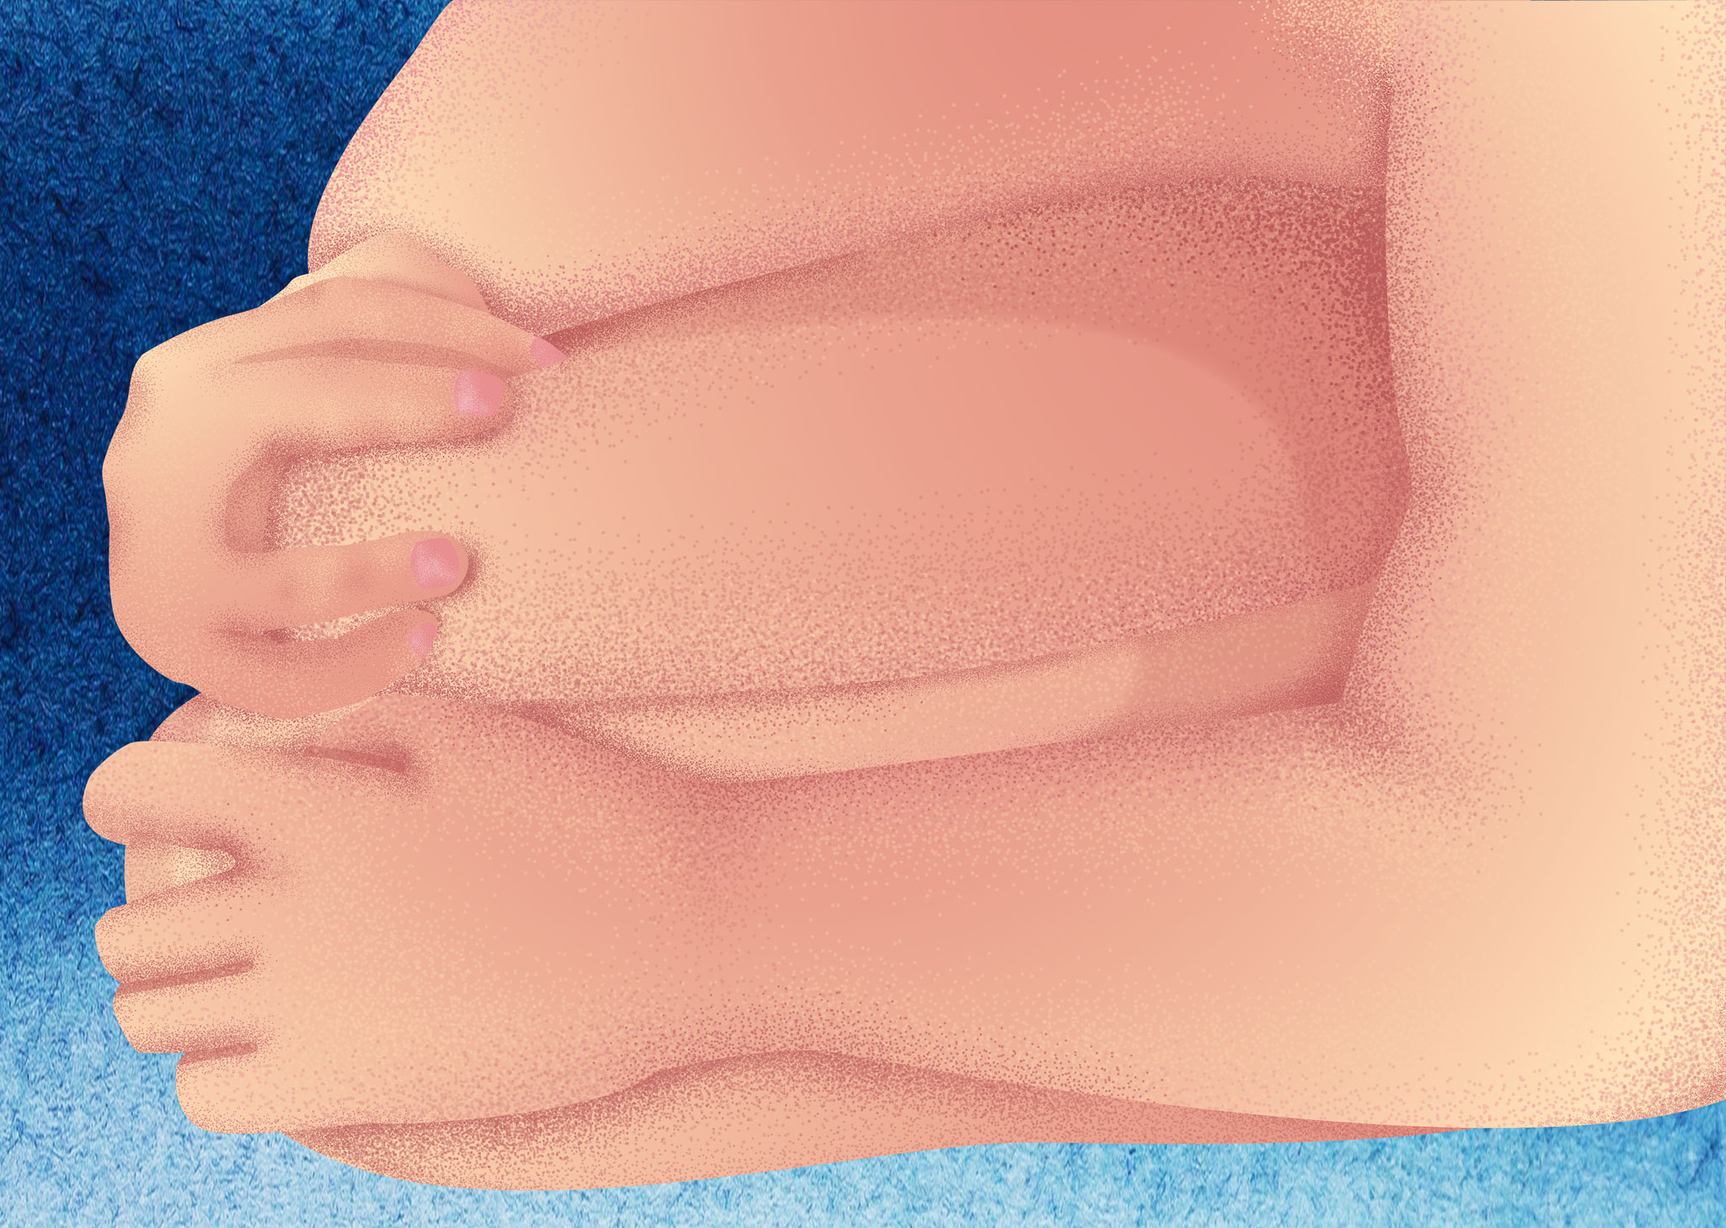
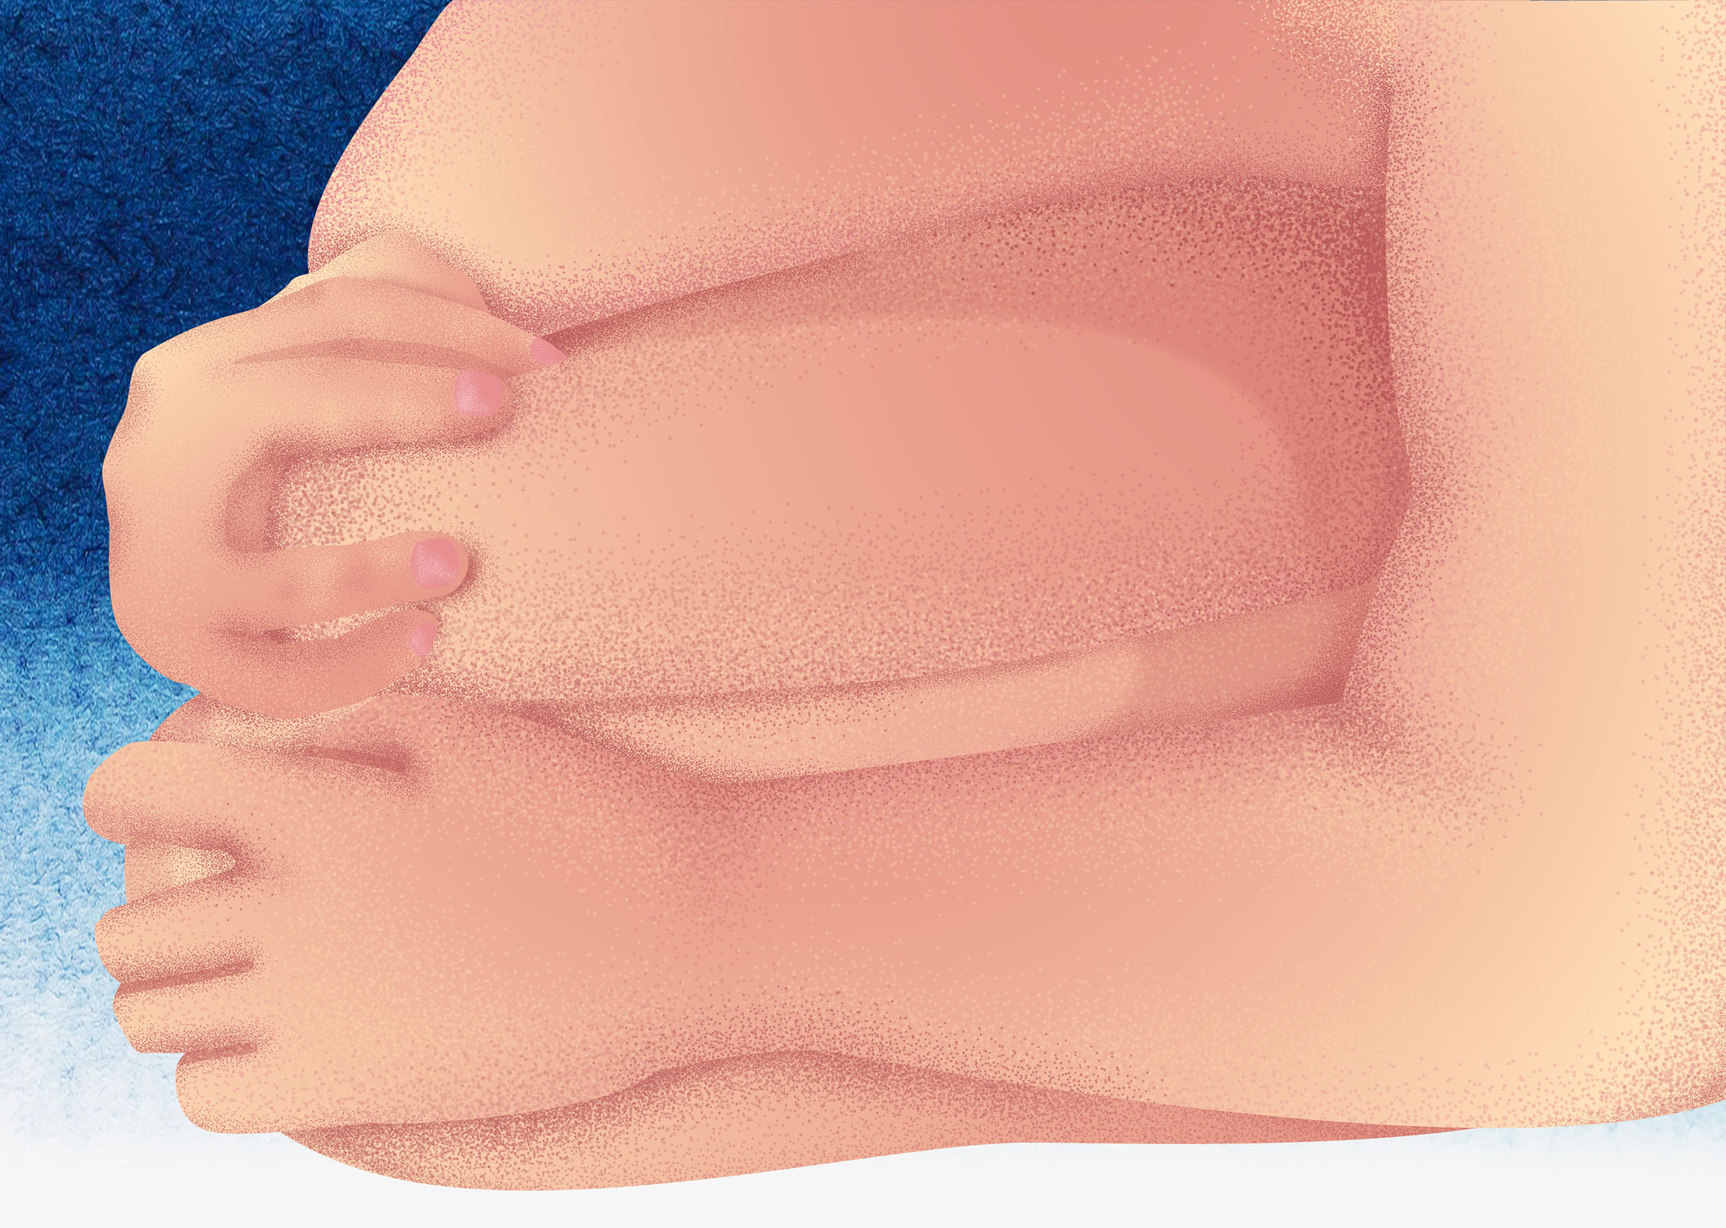
from home mrt to home page

Changed region(s): [[0.0, 0.0, 1.0, 1.0]]

diff --git a/newwheretofitin/src/components/HomeCover.vue b/newwheretofitin/src/components/HomeCover.vue
@@ -1,35 +1,51 @@
 <template lang="pug">
-  section.cover
-    .cover-base
-    svg.cover-click(xmlns='http://www.w3.org/2000/svg', viewBox='0 0 1921 1388' :style="{ height: coverImgAspectRatio > screenAspectRatio ? '100%' : '' }")
-      g#person1
+  section.home-cover
+    //- .mrt-wrapper(ref="mrtWrapper")
+    .cover.cover-mrt
+    svg.cover-clickable(xmlns='http://www.w3.org/2000/svg', viewBox='0 0 1921 1388', :style="coverStyle")
+      g(data-person="1", @mouseenter="togglePerson", @mouseleave="togglePerson")
         path(d='M1185.53,467.22c-4.24-15.54-4.46-20.31-27.75-32.76-17-9.11-63.52-15.5-87.23-18.27l-1.72-.2-1.61-.18a66.38,66.38,0,0,0,.59-8.2c.19-3.77-2-9.63-10.63-10.76a7.94,7.94,0,0,0-6.75,2.48c.17-1.21.31-2.57.39-4.05.7-13.82-4.41-38.68-45.26-53.87-28.88-10.74-44.8-.55-53.54,12.62-8.88,1.93-32.47,10.1-28.2,42.06a10.19,10.19,0,0,0-9.72-.37,13.88,13.88,0,0,0-4.75,3.88,17.91,17.91,0,0,0-3,16.64c1.34,4.17,4.35,8.38,9.69,12.06a15.53,15.53,0,0,0,2.31,1.52c-.71,2-1.53,4.15-2.42,6.37-1.53,3.8-3.26,7.8-5,11.65-2.16,4.79-4.32,9.35-6.08,13a10.08,10.08,0,0,0-7.9,5C893,472.1,827.3,538.5,818,581.91s-12.93,55.3-11.55,59.95c.16.54.87,1.08,2,1.58a1,1,0,0,0-.15.14c-.51.76-.24,1.89-.14,2.72a46.72,46.72,0,0,1,.23,5.13q0,2.26.11,4.53c0,1.3.09,2.6.16,3.9a136.71,136.71,0,0,0,3,23.62,79.58,79.58,0,0,0,9.15,23.35,57.65,57.65,0,0,0,9.63,12.11c.35.34.73.65,1.09,1-.05.78-.09,1.55-.13,2.32-.76,12.47-1.18,24.84-1.19,37a4,4,0,0,0,.21,1.07l-.74.05s-.84,22.79-.72,46c.1,20.05.92,40.46,3.6,46.93,5.8,14,10.43,16.78,9.85,27.27,0,0-4.78,9.09-4.41,18.18.32,7.94,5.21,18,10.68,23.69a22,22,0,0,0,2.41,2.18A76.18,76.18,0,0,0,854,947.75c3.47,11.19,1.74,18.18,0,23.07s3.47,15.38,10.41,16.78c.45.09,1.37.21,2.7.35a19,19,0,0,0-2.13,4.59c0,.12-.09.23-.13.36q-.16.55-.28,1.13c-1,4.68-.07,10.34,2.83,12.86,1.81,1.57,4,1.71,6.14,1.82l2.4.12,10.63.52,10.64.52,10.64.52,10.64.52,10.64.52h.19q5.22.26,10.45.49t10.62.38q5.39.14,10.78.13c3.47,0,6.95-.08,10.42-.22,1.43-.06,2.87-.12,4.3-.21a34.44,34.44,0,0,0,6.34-.86,14.21,14.21,0,0,0,7.75-4.7c.31-.38.6-.75.87-1.13a13.51,13.51,0,0,0,2.59-10.93q1.17-.05,2.08-.13a12.53,12.53,0,0,0,2.42-.37c8.74-2.8,11.63-14,11.63-14s4,13.8,11,14.59l.6,0c.5,0,1.18.07,2,.09a13.46,13.46,0,0,0,2.39,11.81c.27.38.56.75.87,1.13a14.21,14.21,0,0,0,7.75,4.7,34.43,34.43,0,0,0,6.34.86c1.43.09,2.87.15,4.3.21,3.47.15,6.95.21,10.42.22s7.19,0,10.78-.13,7.08-.22,10.62-.38,7-.32,10.45-.49h.19l10.64-.52,10.64-.52,10.64-.52,10.64-.52,10.63-.52,2.4-.12c2.11-.1,4.33-.25,6.14-1.82,2.9-2.52,3.81-8.18,2.83-12.86q-.12-.57-.28-1.13c0-.12-.09-.23-.13-.36a19.51,19.51,0,0,0-3.57-6.6,12.72,12.72,0,0,0,1-1.89,88.31,88.31,0,0,1-9.5-16.08,111,111,0,0,1-9.05-33.42,137.73,137.73,0,0,1,3.11-48.21c2.11-8.57,6-17.35,9.7-26.26,7.56-18.11,14.52-36.72,4.89-55.07a75,75,0,0,1-5.21-14.85c-.37-1.42-.73-2.9-1.07-4.43-.31-1.39-.61-2.81-.9-4.28-.42-2.15-.81-4.39-1.16-6.69a143.67,143.67,0,0,1-1-37.24c.12-1.06.25-2.11.4-3.16a75.84,75.84,0,0,1,6.65-22.47c.35-.71.73-1.4,1.11-2.09q.88-1.62,1.87-3.16a45.91,45.91,0,0,1,7.74-9.23l.14-.13c.25-.22.47-.46.72-.67l.18-.17-.2-.17c-.46-.37-.91-.76-1.37-1.16l-.48-.41c-.67-.6-1.33-1.25-2-1.92a43.89,43.89,0,0,1-4.8-5.93,49.1,49.1,0,0,1-3.86-6.89,54.93,54.93,0,0,1-2.37-5.95,63.68,63.68,0,0,1-3.12-27.06,61.52,61.52,0,0,1,3.69-15.05c1.86-5.2,1.7-8-2.64-24.28l-.32-1.19a28.31,28.31,0,0,1-.93-6.83c0-.18,0-.36,0-.54a35.08,35.08,0,0,1,.22-3.91q.08-.7.18-1.4c1.17-7.91,4.78-16.06,9.39-23.42l.56-.88c1.54-2.39,3.17-4.7,4.85-6.88l.19-.25q.62-.8,1.25-1.58c1-1.25,2-2.46,3.07-3.61q1.19-1.34,2.38-2.57c.34-.35.7-.68,1-1q.89-.87,1.81-1.69a52.78,52.78,0,0,1,10.52-7.23l.65-.34a77.46,77.46,0,0,1,20.25-6.73C1193,516.82,1188.52,478.17,1185.53,467.22Z')/
-      g#person2
+      g(data-person="2", @mouseenter="togglePerson", @mouseleave="togglePerson")
         path(d='M1187.17,122.16c-.82-16.56-8.6-31.95-16.23-46.81a32,32,0,0,0-4.58-7.22c-.21-.23-.45-.45-.68-.67q.81-4.27,1.75-8.45,1.39-4.81,2.44-9.72c.06-.21.11-.43.17-.64a72.2,72.2,0,0,0,2.67-14.77c.59-6.9.9-13.93,1.06-21h-24.4c-.27,7.55-1.2,21.41-4.39,31.07-2.58,7.8-4.56,15.33-5.82,20.45a34.14,34.14,0,0,0-6.87,4.92c-1.78,1.6-3.45,3.32-5.07,5.06-8.74,9.38-16.79,19.64-21.91,31.21l-.28.65c-3.92,9.11-9.29,26.55-1,34.45,2.15,2.06,5.11,3,8.16,3.66a16.7,16.7,0,0,0,6.11,2.64c-1.64,3.88-6,15.29-4.62,23.22,1.65,9.17,1.28,26.8-5.3,31-.24-.21-.49-.41-.74-.6a15.35,15.35,0,0,0-14.3-2.71l-.13,0A78.37,78.37,0,0,0,1081,184.79c-9.56-8.12-21.36-13.59-33.92-17.7l-2.05-.67a33.06,33.06,0,0,1,.41-9.24c.11-.6.22-1.2.35-1.81a18.57,18.57,0,0,0,2.2-1.16,21.42,21.42,0,0,0,6.47-6.61,39.62,39.62,0,0,0,3.82-7.78,86.57,86.57,0,0,0,4.63-21.05c.3-2.77.49-5.55.66-8.32l0,0,0-.29c0-.71.09-1.43.13-2.14.12-2.31.49-4.13-.13-5l0,0a5.32,5.32,0,0,0-.72-.78,13,13,0,0,0-1-.87c-.58-.43-1.15-.81-1.56-1.07a126.33,126.33,0,0,0-.06-15.12,66.72,66.72,0,0,0-2.48-15.17,39,39,0,0,0-2.16-5.62,7.62,7.62,0,0,0-1.24-2c.63-.59.94-.95.94-.95A27.79,27.79,0,0,0,1053,54.7c-7.67-15.73-30.11-24.13-59.21-24.48-33-.4-41.91,10.75-55.82,27.08S926.38,99,928.59,106.9a125.73,125.73,0,0,1,3,18.16c.1,1,.17,1.71.21,2.16-.33,1.46-.65,2.91-1,4.37a95.87,95.87,0,0,1-3.35,12.21,15.84,15.84,0,0,1-.79,1.73,14.75,14.75,0,0,0-3.76.84c-4,1.47-6.93,4.54-9.39,7.85A95.94,95.94,0,0,0,901,177.28c-.91,2.39-1.75,4.8-2.49,7.25a32.24,32.24,0,0,0-1.16,6.71,43.67,43.67,0,0,1,17,3.82,35.58,35.58,0,0,1,5.15,3c8.94,6.26,15,16.2,20.55,25.7,1.13,1.93,2.24,3.87,3.33,5.82a80.66,80.66,0,0,1,4.32,8.85c3.56,8.83,4.82,18.37,5.76,27.81,1.27,12.64,2,25.41.68,38,0,.43-.1.85-.15,1.28-.3,2.55-.66,5.09-1,7.63-.25,1.88-.47,3.75-.64,5.63a21.51,21.51,0,0,1,7.42,3.46,57.45,57.45,0,0,1,5.67,2c6.6,2.71,12.73,6.9,15.07,13.38,7.12-.57,15.56.63,25.56,4.35.74.27,1.43.56,2.15.84,34.88,13.7,42.33,34.64,43,48.54.06,1.34.05,2.61,0,3.81a44.7,44.7,0,0,1-.41,4.52,9.25,9.25,0,0,1,3-2,7.31,7.31,0,0,1,3.68-.44,16.43,16.43,0,0,1,3.91,1,11.56,11.56,0,0,1,3.22,1.87A9.65,9.65,0,0,1,1068,406a9.47,9.47,0,0,1,.12,2c0,.1,0,.22,0,.34v.12c0,1.09-.05,2.86-.25,5-.08.85-.18,1.75-.32,2.7,13.39,1.52,36.79,4.48,57.21,8.66l3,.63a99.24,99.24,0,0,1-.52-18.39l0-.61a15.52,15.52,0,0,0,5.65-5.83c.06-.11.12-.21.18-.32,2-4.22,1.32-9,1.32-13.57,0-16.39,9.67-31.52,13.29-47.6,4.3-19.13-.12-39.07-7.91-57.34-1.52-3.56-3.18-7.06-4.91-10.54,3.69-6.15,9.49-21.53,10.62-58.25,0,0,2.42-24.13,9.87-32.42s12.53-9.27,11.45-29.19C1181,148.48,1187.91,137,1187.17,122.16Zm-33.9-38.07a19.76,19.76,0,0,1,3,4.33c5.13,9,10.37,18.25,11.28,28.42a21,21,0,0,1-.89,8.63l-.41,0c-2.28-.17-4.75.14-6,1.89-.09.13-.15.26-.23.4a9.44,9.44,0,0,0-3.61-.5c-2.29.06-4.82.62-6.29,2.44a6,6,0,0,0-.38.56,5.93,5.93,0,0,0-.5,1l-.06.15a6.36,6.36,0,0,0-2.12-3.93A8.11,8.11,0,0,0,1142,126c-2.37,0-5,.46-6.41,2.32v0a6.08,6.08,0,0,0-1.74-3.33,8.11,8.11,0,0,0-5-1.76,10.93,10.93,0,0,0-4.12.38,44.58,44.58,0,0,1,2.83-11.31c2.88-7.41,7.62-14.06,12.81-20.17,2.29-2.7,4.76-5.38,8-7a12.79,12.79,0,0,1,4.58-1.31Z')/
-      g#person3
+      g(data-person="3", @mouseenter="togglePerson", @mouseleave="togglePerson", @click="showPage")
         path(d='M725.11,551.15h0a17.61,17.61,0,0,0-4.53-8.8,21.09,21.09,0,0,0-6.78-5,22.07,22.07,0,0,0-10.42-2,26.47,26.47,0,0,0-11.77,3.49,10.86,10.86,0,0,1-8.72-2c1.27-1.71,1.64-3.18,1-3.64-1.11-.85-4-8.46-4-8.46l-.74,0c-.09-.5-.21-1-.32-1.47l-.08-.32c-4-16.41-8.19-33.27-18.09-46.94a80.8,80.8,0,0,0-15.56-15.86c-8.91-7.05-19-12.83-29.06-18.54L612,439.22a70,70,0,0,0,.09-32.29c-4.91-20.33-18.44-37.15-32.54-52.17a88.51,88.51,0,0,0-11.89-11.05c-6.08-10.68-15-23.37-24.26-25.71a315.1,315.1,0,0,0-3.28-37c-.23-1.52-.47-3-.79-4.55a9.38,9.38,0,0,1,.41,1s1.12-1.81,2.56-4.63c4.2-8.22,11.14-25.06,1-31-8-4.7-18.79-3.37-27.42.86a33.81,33.81,0,0,0-2.59-2.18c-7.45-5.59-16.92-7.67-26.15-8.92-9.95-1.36-20.3-1.88-29.86,1.06a8.56,8.56,0,0,0-1.36-1.17,5.93,5.93,0,0,0-4.75-1c-4.28,1-13.75,4.9-10.2,11.48a61.83,61.83,0,0,0-12.45,15.38c-6.4,11-12,24.32-10.09,37.3.13.93.3,1.86.51,2.79a5.34,5.34,0,0,0,1.31,2.78,3.8,3.8,0,0,0,1.45.8l-.32.07a33.09,33.09,0,0,0,1.53,9.29,8.1,8.1,0,0,0-1.21,1c-3.78,3.77-3.89,9.07-2.21,13.35a38.62,38.62,0,0,0-9.94,4.52c-17.38,11.47-40.13,20.2-41.42,37.57-2.21,5.54-4.92,12.79-6.65,18.94a122.26,122.26,0,0,1,4.39,16.82s5.55,34.46-2.61,42.95a33.34,33.34,0,0,1-8.68,6.56,16.93,16.93,0,0,0,8.68,7.76,41.66,41.66,0,0,1,7.88-12c.56-.59,1.08-1.17,1.58-1.74,6.55-7.44,8.65-13.29,13.42-18.35a34.19,34.19,0,0,1,11.18-7.62c5.45-2.49,12.92-4.87,23.71-7.27a83.43,83.43,0,0,1,12.24-1.8c2.63-.19,5.19-.24,7.66-.18a76.37,76.37,0,0,1,26.27,5.37c2.15.85,4.17,1.76,6,2.68a76.68,76.68,0,0,1,8.05,4.64l1.06.72,1.38,1c.74.53,1.41,1,2,1.5l.27.21c.85.67,1.56,1.27,2.08,1.72.79.69,1.2,1.1,1.2,1.1a134.54,134.54,0,0,1,10.15,12.65,101.8,101.8,0,0,1,10.1,17.29,54.1,54.1,0,0,1,3.21,9.29c.06.27.12.54.18.82.1.47.2.93.28,1.4a107.06,107.06,0,0,1,1.29,21.56c0,1.45-.07,2.87-.11,4.22-.22,7.45-.34,13.32,1.95,16.92,3.13,4.94,8.93,13,9.76,23.8a34.21,34.21,0,0,1,0,5.1,36.24,36.24,0,0,1-1,6.08l22,5.76a68.46,68.46,0,0,0-1.64,12.08q4.68,3,9,6.31l.85.64c3,2.33,5.91,4.83,9.46,6.36a29.42,29.42,0,0,0,8.86,2c6.19.59,13.39-.34,16.84-5.1,2.74-3.79,2.2-8.72,2.21-13.27a36.23,36.23,0,0,1,.55-6.19,26.48,26.48,0,0,1,6.18-13.34,20,20,0,0,1,4.64-3.79l0-.8q.14-3.41.28-6.82c-.19-5.38-.8-10.78-3.07-15.64l-.19-.4A36.24,36.24,0,0,0,597,510.4c-1-1.22-2-2.42-3-3.6q2,.41,3.93.72l1.38.21c2,.28,4.09.48,6.14.6l0-.53q.06-1.41.13-2.81c-.18-.06.09-8,.11-9.32a8.1,8.1,0,0,1,.36-2.48l0-.06a2.94,2.94,0,0,1,.26-.52l.11-.15.1-.13.06-.06a6.82,6.82,0,0,1,1.58-1.2l.34-.23c1.83-1.19,5.11-2.85,5.72-3.21a6.41,6.41,0,0,1,2.23-.95,6.64,6.64,0,0,1,3.13.55l32.17,11.22a4.89,4.89,0,0,1,2.12,1.17l.14.19a3.68,3.68,0,0,1,.41,2.29l-.42,10.57-.63,16.16-.11,2.74-.11,2.79-.08,1.95-.17,4.44-.32,8.23-.06,1.57-.11,2.91-.09,2.38-.23,5.93,0,.66v.37l0,.64-.22,5.64-.13,3.36a2.75,2.75,0,0,1-.45,1.69,3.21,3.21,0,0,1-1.24.79l-.9.39-3.45,1.5-.57.25-.68.3a7.92,7.92,0,0,0,.67,2.65,3.72,3.72,0,0,0,.69,1,23.34,23.34,0,0,0,.25,2.72c.62,3.34,3.49,5.08,7.15,5.93a34.85,34.85,0,0,0,7.83.72c2.64,0,5.21-.2,7.29-.38l2.71-.22c1.58-.11,3.16-.28,4.74-.48q3.53-.43,7-1.1c2.6-.5,5.17-1.1,7.72-1.78.74-.2,1.48-.37,2.22-.58,1.66-.48,3.32-1,5-1.54,2.38-.79,4.74-1.66,7.06-2.62s4.74-2.07,7-3.27c1.92-1,3.81-2.1,5.62-3.28l.84-.55a37.59,37.59,0,0,0,5.73-4.48,11.2,11.2,0,0,0,3.58-6.28,6.85,6.85,0,0,0,.06-.84C727.58,550.27,725.11,551.15,725.11,551.15Z')/
-      g#person4
+      g(data-person="4", @mouseenter="togglePerson", @mouseleave="togglePerson")
         path(d='M1498.53,402.19c-.08-.15-.16-.31-.25-.46,3.49-7.15,4.67-17.79,3.09-29.82-2-15.34-9.62-24.46-9.62-24.46.08-.23.14-.44.22-.66l.12-.37c5.1-15.19,2.35-25,2.35-25a89.21,89.21,0,0,0-2.4-18.51,136.2,136.2,0,0,0-7-21.36A223.71,223.71,0,0,0,1475,260.76l-1-1.8c.28-19-14-31.67-14-31.67h0c-4.44-4.43-10.45-7.37-16.59-9.42-1-.34-2-.66-3.07-1l-1.53-.42q-1.25-1.17-2.37-2.14a21.38,21.38,0,0,0-5.18-3.65c-7.52-2.89-16.63-15.67-18.2-16.15a2.67,2.67,0,0,0-2.25.42c-1.94-3-3.44-7.46-4.61-12.63,1.22-.55.61-1.37.61-1.37s-.9-17.56,1.36-27.24,7.91-38.5-20.58-49.3a16.13,16.13,0,0,0,3.54-3,13.14,13.14,0,0,0,3.25-12.09C1392.09,79.45,1393,65.49,1365,59c-21.47-5-31,2.67-34.7,8a13.76,13.76,0,0,0-1.93,3.75c-.18.61-.37,1.25-.54,1.9-.73,2.72-1.19,5.78,1,8.68,0,0-17-.9-35.73,14.63a51.7,51.7,0,0,0-9.85,10.76,49.09,49.09,0,0,0-8.49,28.83c0,1,.11,1.87.2,2.59-3.56,20.48-7.39,47.67-8.86,58.37-5.15-.35-13,.66-20.45,7.86a76.75,76.75,0,0,0-9.26,11.11c-1.31,1.87-2.53,3.74-3.65,5.57-1.42,2.31-2.69,4.53-3.79,6.54q-.67,1.24-1.25,2.36c-13.74,5.37-24.35,14.22-30.57,24a22.73,22.73,0,0,0-3.21,10c-.87,8.75,2.09,17.33,2.51,18.47a4.19,4.19,0,0,0-2.29-.74c-4.86,0-7.92,3.6-6.75,8.64,0,0-6.84,2.16-4.32,9.9a5,5,0,0,0-.38.35c-1.11,1.12-4,4.93-.18,11.11,0,0-.09.21-.21.56-.53,1.52-1.69,5.73.73,7.87a5.93,5.93,0,0,0-.76.59l0,0a11.33,11.33,0,0,0-1.59,1.76l-.4-.3c-.07.39-.13.78-.19,1.18-2,3.15-3.94,8.92-2.33,18.76.13.81.31,1.6.5,2.38q0,.65,0,1.3c0,.36,0,.72,0,1.09q.48.86,1,1.7a69.41,69.41,0,0,0-1.78,13.36,18,18,0,0,0,2.21,9.6l-.11,0q.87,1.55,1.81,3,.47.72,1,1.39a36.38,36.38,0,0,0-8.73,1.82c-14.71,5.21-29.33,13.41-32.59,29.25a199.41,199.41,0,0,0-3.4,21.13c2.65.68,5.18,1.38,7.56,2.1a72.47,72.47,0,0,1,12.57,4.89c23.28,12.44,23.5,17.22,27.73,32.75,2.18,8,5.17,30.72,7.57,50.9.27,2.3.54,4.57.79,6.78.57,5,1.1,9.65,1.55,13.74a161.49,161.49,0,0,1,26.95-2.75,57.75,57.75,0,0,1,6.31.18c1.32.11,2.61.25,3.86.44a50.6,50.6,0,0,1,8.37,2q1.24.41,2.41.87l.65.26q1.43.58,2.76,1.23a49,49,0,0,1,14.67,10.89c15.43,3.23,23.37,13.54,27.43,24.05a66.32,66.32,0,0,1,4.06,20.06,58.52,58.52,0,0,1,0,7c-.19.17-.4.3-.6.46a40.29,40.29,0,0,1-12,6.72c-.31,3.31-.67,6.8-1.08,10.34-.8,6.89-1.8,14-3,20.3a81.31,81.31,0,0,1-4.22,15.41c-.18.41-.33.81-.5,1.21q-.88,2.13-1.62,4.13c-1,2.68-1.78,5.2-2.41,7.57,8.56.42,17.45-2.62,24.89-7.19a67.78,67.78,0,0,0,27.36-32.7,27.34,27.34,0,0,0,2.08-8.13c.45-6.83-3.17-13.24-4.28-20,0-.19-.05-.37-.08-.56s-.09-.57-.12-.86h0a197.53,197.53,0,0,0-4.38-20.29c-.84-3.24-1.91-6.79-4.59-8.5a6.78,6.78,0,0,0-4-1,10.33,10.33,0,0,0-1.34.14c.4-3.34.78-6.92,1.09-10.53a156.79,156.79,0,0,0,.67-20.92c.2-.64.37-1.28.56-1.92l.46-.32a120.86,120.86,0,0,0,4.71-23.57c.06-.45.12-.89.18-1.34a212.26,212.26,0,0,0,67.46-.12,214.05,214.05,0,0,0,67.37-17.27,113.82,113.82,0,0,0,22.8-13.76,106.16,106.16,0,0,0,9.47-8.3c13.48-13.33,23-30.16,24.56-48.91C1502.89,416.29,1501.94,408.39,1498.53,402.19Z')/
-      g#person5
+
+      g(data-person="5", @mouseenter="togglePerson", @mouseleave="togglePerson")
         path(d='M655,498.92l-.14-.19a4.9,4.9,0,0,0-2.12-1.17l-32.24-11.24a6.65,6.65,0,0,0-3.13-.55,6.42,6.42,0,0,0-2.23.95c-.61.36-3.9,2-5.73,3.22l-.34.23a6.83,6.83,0,0,0-1.58,1.2l-.06.06-.1.13-.11.15a3,3,0,0,0-.26.53l0,.06a8.11,8.11,0,0,0-.36,2.48c0,1.3-.29,9.28-.11,9.34q-.06,1.41-.13,2.82c0,.43,0,.86-.06,1.29h0l-.78,17.8c-.19,4.54-.37,9.09-.55,13.64-8.17,4.8-11.38,14.46-11.4,23.37,0,4.56.53,9.5-2.22,13.29-3.45,4.77-10.67,5.7-16.87,5.11a29.47,29.47,0,0,1-8.88-2.05c-3.55-1.54-6.48-4-9.48-6.37a126.11,126.11,0,0,0-29-16.89c-1.18-.49-2.37-.94-3.56-1.4.27-.55.53-1.14.77-1.78,7.3-19.13-2.78-32.69-7.3-39.82s.35-23.13-3.13-42.78-24-41.53-24-41.53-26.35-26.35-68.37-17-34.13,18.31-50,35.06c-8.74,9.23-11.43,20.82-12.1,29.38h0s-2.18,18.38-8.3,23.27c-5.59,4.47-22.82,43.77-5.8,64.27-1.12.9-2.23,1.84-3.31,2.87A141.54,141.54,0,0,0,329,580.94a159.66,159.66,0,0,0-20.2,33,192.31,192.31,0,0,0-14.86,49.22c-.17,1-.34,2.05-.49,3.08l-.13-.36c0,.67-.07,1.33-.1,2a214.49,214.49,0,0,0-2,22.14c-.07,1.82-.13,3.65-.13,5.48-.28,26.87,3.94,53.67,3.23,80.53-.17,6.54-1.69,14.51-7.9,16.56-3.25,1.07-7.3.24-9.73,2.64-2.23,2.2-1.32,5.71.9,8a7.94,7.94,0,0,0,2,1.48,6.59,6.59,0,0,0,1.66.61c.15,0,.29.07.44.1s0,.12.05.18a7,7,0,0,0,4.31,4.72,8.26,8.26,0,0,0,2.26.57,6.56,6.56,0,0,0,4.83-1.29c0,.14.07.27.1.4a7,7,0,0,0,.28,1c2,5.37,10.35,7.5,14.49,3.31.08-.08.17-.14.24-.23a4.5,4.5,0,0,0,.29,1.4c1.18,3.11,5.69,4.58,9,3.28,3.77-1.48,6.15-5.16,8.15-8.69.75-1.33,1.6-2.77,3-3.29h0a4.06,4.06,0,0,1,1.88-.15q.47.8,1,1.58c.27.39.54.79.82,1.17.91,1.23,1.9,2.41,2.93,3.55q.64.71,1.3,1.41c19.22,20.22,46,32.24,73.42,37.19,10.28,1.85,21.18,3,29.79,8.86a24.41,24.41,0,0,1,.9,5.53c-3.75,25.62-.34,40.42,4.23,49.85a38.1,38.1,0,0,0,3.61,7.21c2.21,3.41,5.07,6.68,7.59,10a28.85,28.85,0,0,1,2.29,9c-.33-1-1.72.39-2.27,1.89a17.3,17.3,0,0,0-.69,5.89c0,5,0,10.09,1.83,14.72,1.2,3.08,3.15,5.8,4.54,8.8,2.28,4.9,3.11,10.58,6.57,14.73a8.06,8.06,0,0,0,5.89,3.25c2.32,0,4.68-1.94,4.48-4.25,4.92,3.52,10,7.13,16,8.32a46.18,46.18,0,0,0,10.85.38c4.73-.18,9.55-.26,14.07-1.68,3.88-1.21,7.78-3.86,8.53-7.86s-1.89-7.84-4.39-11.09l-2.59-3.37-.83-1.08-10.11-13.15a8.37,8.37,0,0,0,.09.91c-3.49-9-3.32-29.24-1.9-38.51a21.44,21.44,0,0,1,.8-3.61l0-.08c2.32-6.38,16.79-30.56,18.62-40l.47.85c1.7,3,3.48,5.9,5.3,8.8q4.73,7.54,10,14.74c.39.53.76,1.07,1.15,1.59,6.49,8.72,13.89,18,13.86,28.83,0,9.22-5.55,18-4.66,27.11a13.42,13.42,0,0,1,0-4.15c-3,6.1-6,12.62-5.26,19.36a10.28,10.28,0,0,0,2.12,5.52,10.85,10.85,0,0,0,5.19,3.08,22.14,22.14,0,0,0,15.55-1c5.26-2.39,9.35-6.74,12.94-11.27,2.54-3.21,4.89-6.55,7.24-9.89l3.79-5.38a1.71,1.71,0,0,0,.28-.6,5.14,5.14,0,0,0,8.1-1.6,10.38,10.38,0,0,0,.58-5c-.4-8.42-.81-16.91-2.91-25.07a6,6,0,0,0-1.57-3.17c-.6-.79-2.67-1.36-3.86-1.63-.05-4.74-.43-9.53-.52-14.26,0-1.22,0-2.44,0-3.66.28-22.93,6.91-45.44,8.49-68.37a156.43,156.43,0,0,0-8-61c.12.09.25.17.37.27q-.67-1.66-1.41-3.29l-.12-.25a95.1,95.1,0,0,0-21.69-30.12,49.82,49.82,0,0,0,1.94-5q.73-2.17,1.26-4.39c4.23-17.65-.67-37.48-13.28-50.63-5.88-6.14-13.86-12.47-13-20.87l.11-.2A41.49,41.49,0,0,0,554,645.38a29.34,29.34,0,0,0,9.71,3c12.93,2.13,26.68,1.71,38.63-3.31a52.63,52.63,0,0,0,7.79-4.1,60.18,60.18,0,0,0,12.54-10.72,67.54,67.54,0,0,0,4.49-5.55c6.2-8.61,10.34-18.35,13.51-28.25,2-6.13,3.59-12.53,2.71-18.87h-.13l7.76-3.39a3.21,3.21,0,0,0,1.24-.79,2.75,2.75,0,0,0,.45-1.7l.42-10.7L655,511.8l.42-10.59A3.69,3.69,0,0,0,655,498.92Z')/
+    .cover.cover-person#person1
+    .cover.cover-person#person2
+    .cover.cover-person#person3
+    .cover.cover-person#person4
+    .cover.cover-person#person5
+  //- section
+    //- .cover.cover-page#page3
 </template>
+
 
 <script>
 export default {
   name: 'HomeCover',
   data() {
     return {
-      coverImgAspectRatio: (1921 / 1388).toFixed(2),
+      // (1921 / 1388).toFixed(2)
+      coverImgAspectRatio: 1.38,
       ww: document.documentElement.clientWidth,
       wh: document.documentElement.clientHeight,
+      // publicPath: process.env.BASE_URL,
     };
   },
   created() {
     window.addEventListener('resize', this.alterAspect);
   },
   computed: {
-    screenAspectRatio() {
-      return this.ww / this.wh;
+    coverStyle() {
+      const screenAspectRatio = this.ww / this.wh;
+      if (this.coverImgAspectRatio > screenAspectRatio) {
+        return { width: `${1921 * (this.wh / 1388)}px` };
+      }
+      return { height: `${1388 * (this.ww / 1921)}px` };
     },
   },
   methods: {
@@ -37,26 +53,81 @@ export default {
       this.ww = document.documentElement.clientWidth;
       this.wh = document.documentElement.clientHeight;
     },
+    togglePerson(evt) {
+      const num = evt.currentTarget.getAttribute('data-person');
+      document.getElementById(`person${num}`).classList.toggle('fade-in');
+    },
+    showPage(evt) {
+      const num = evt.currentTarget.getAttribute('data-person');
+      // const page = document.getElementById(`page${num}`);
+      // page.classList.add('fade-in');
+      // page.style.transform = 'translateX(0vw)';
+      // this.$refs.mrtWrapper.style.transform = 'translateX(-100vw)';
+    },
   },
 };
 </script>
 
 <style lang="scss">
-.cover {
+.home-cover {
   position: relative;
   overflow: hidden;
-}
-.cover-base {
   height: 100vh;
-  background-image: url(../assets/Cover/home--lap.jpg);
+}
+.cover {
+  position: absolute;
+  top: 0;
+  left: 0;
+  width: 100%;
+  height: 100%;
   background-position: top center;
   background-size: cover;
   background-repeat: no-repeat;
 }
-.cover-click {
+// .mrt-wrapper {
+//   height: 100%;
+//   transition: transform 1s;
+// }
+.cover-mrt {
+  background-image: url(../assets/Cover/home_mrt--lap.jpg);
+  z-index: -9;
+}
+.cover-clickable {
   position: absolute;
   top: 0;
   left: 50%;
   transform: translateX(-50%);
+  opacity: 0;
 }
+.cover-person {
+  opacity: 0;
+  transition: opacity 16ms;
+  z-index: -1;
+}
+[data-person] {
+  cursor: pointer;  
+}
+#person1 {
+  background-image: url(../assets/Cover/home_person1.png);
+}
+#person2 {
+  background-image: url(../assets/Cover/home_person2.png);
+}
+#person3 {
+  background-image: url(../assets/Cover/home_person3.png);
+}
+#person4 {
+  background-image: url(../assets/Cover/home_person4.png);
+}
+#person5 {
+  background-image: url(../assets/Cover/home_person5.png);
+}
+// .cover-page {
+//   transition: transform 1s;
+//   z-index: 99;
+// }
+// #page3 {
+//   background-image: url(../assets/Cover/page3--lap.jpg);
+//   transform: translateX(100vw);
+// }
 </style>

diff --git a/newwheretofitin/src/App.vue b/newwheretofitin/src/App.vue
@@ -1,30 +1,25 @@
 <template>
   <div id="app">
     <HomeCover/>
-    <!-- <img alt="Vue logo" src="./assets/logo.png"> -->
-    <!-- <HelloWorld msg="Welcome to Your Vue.js App"/> -->
+    <BasePage/>
   </div>
 </template>
 
 <script>
-// import HelloWorld from './components/HelloWorld.vue';
 import HomeCover from './components/HomeCover.vue';
+import BasePage from './components/BasePage.vue';
 
 export default {
   name: 'app',
   components: {
     HomeCover,
+    BasePage,
   },
 };
 </script>
 
 <style lang="scss">
-// #app {
-//   font-family: 'Avenir', Helvetica, Arial, sans-serif;
-//   -webkit-font-smoothing: antialiased;
-//   -moz-osx-font-smoothing: grayscale;
-//   text-align: center;
-//   color: #2c3e50;
-//   margin-top: 60px;
-// }
+.fade-in {
+  opacity: 1;
+}
 </style>

diff --git a/newwheretofitin/src/components/BasePage.vue b/newwheretofitin/src/components/BasePage.vue
@@ -1,0 +1,16 @@
+<template lang="pug">
+  section.page
+    .page-cover#page3
+</template>
+
+<script>
+export default {
+  name: 'BasePage',
+};
+</script>
+
+<style lang="scss">
+#page3 {
+  background-image: url(../assets/Cover/page3--lap.jpg);
+}
+</style>

diff --git a/newwheretofitin/src/main.js b/newwheretofitin/src/main.js
@@ -1,8 +1,10 @@
 import Vue from 'vue';
 import App from './App.vue';
+import store from './store';
 
 Vue.config.productionTip = false;
 
 new Vue({
+  store,
   render: h => h(App),
 }).$mount('#app');

diff --git a/newwheretofitin/src/store.js b/newwheretofitin/src/store.js
@@ -1,0 +1,16 @@
+import Vue from 'vue';
+import Vuex from 'vuex';
+
+Vue.use(Vuex);
+
+export default new Vuex.Store({
+  state: {
+
+  },
+  mutations: {
+
+  },
+  actions: {
+
+  },
+});
